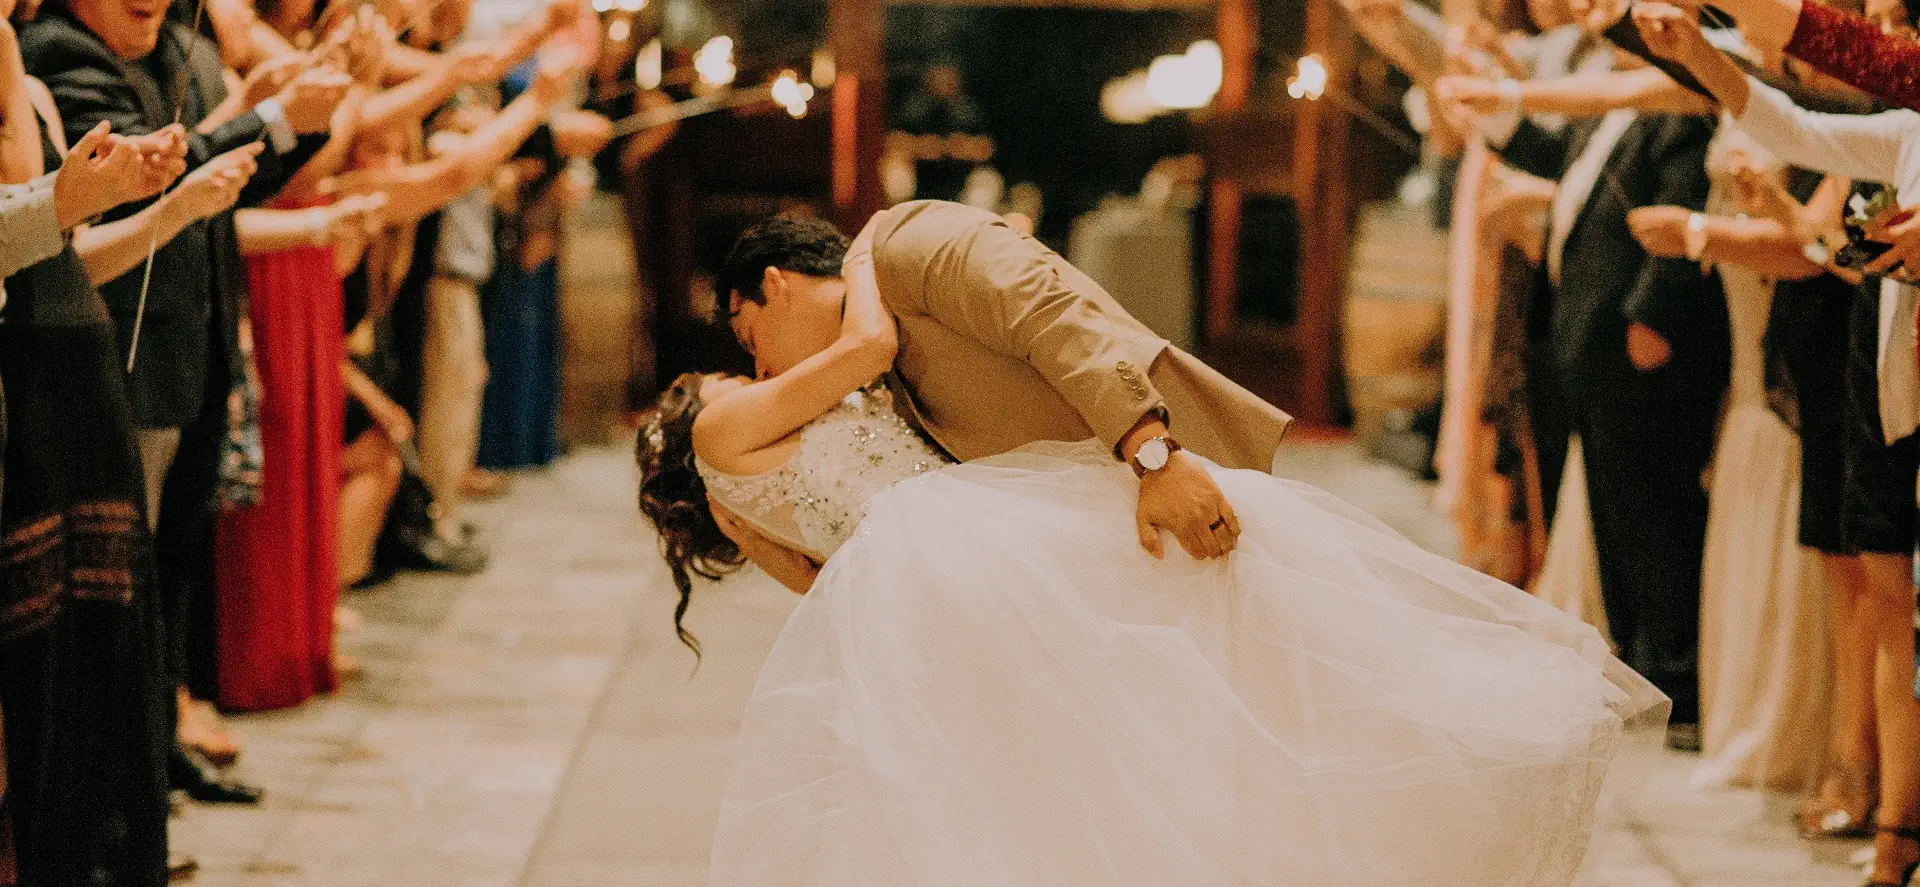
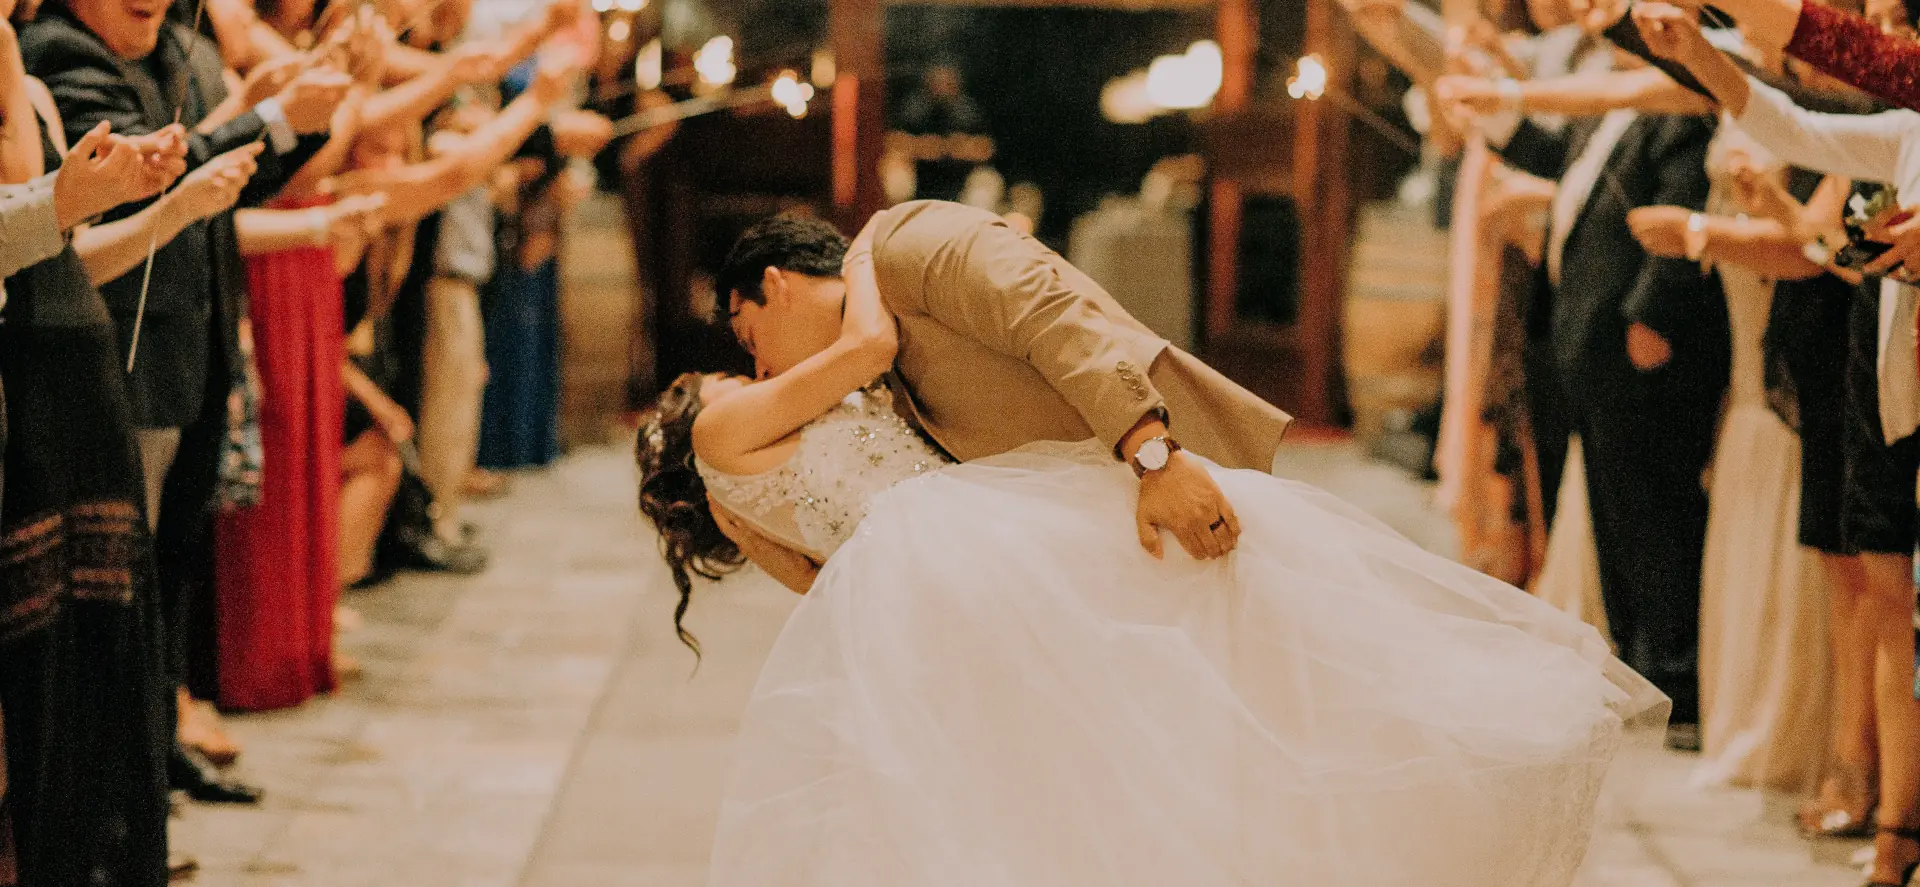
Changement images + changement src set selon media queries

diff --git a/index.html b/index.html
@@ -2,16 +2,21 @@
 <html lang="fr">
 
 <head>
+	<meta charset="UTF-8">
 	<meta name="viewport" content="width=device-width, initial-scale=1.0">
+
 	<title> Nina Carducci - Photographe </title>
+	<meta name="description" content="Saisir un moment, une émotion, une situation, un endroit, une lumière et les rendre immortels">
+
 	<link rel="stylesheet" href="./assets/bootstrap/bootstrap.min.css">
 	<link rel="stylesheet" href="./assets/style.css" media="all">
+
 	<link rel="preconnect" href="https://fonts.googleapis.com">
 	<link rel="preconnect" href="https://fonts.gstatic.com" crossorigin>
-	<link
-		href="https://fonts.googleapis.com/css2?family=Inter&family=Spectral:ital,wght@0,400;1,300;1,400;1,800&display=swap"
-		rel="stylesheet" media="print" onload="this.onload=null;this.removeAttribute('media');" fetchpriority="high">
-	<meta charset="UTF-8">
+
+	<link href="https://fonts.googleapis.com/css2?family=Inter&family=Spectral:ital,wght@0,400;1,300;1,400;1,800&display=swap"
+	rel="stylesheet" media="print" onload="this.onload=null;this.removeAttribute('media');" fetchpriority="high">
+	
 
 </head>
 
@@ -51,23 +56,29 @@
 					<div class="carousel-item">
 						<img src="./assets/images/slider/1920/nicholas-green-1920px.webp" class="d-block w-100"
 							width="1920" height="888" style="max-width: 100%; height: auto;" alt="Youngs at a concert"
-							srcset="./assets/images/slider/768/nicholas-green-768px.webp 768w,
-									./assets/images/slider/1920/nicholas-green-1920px.webp 1920w" sizes="100vw">
+							srcset="./assets/images/slider/650/nicholas-green-650px.webp 650w,
+									./assets/images/slider/1000/nicholas-green-1000px.webp 1000w,
+									./assets/images/slider/1180/nicholas-green-1180px.webp 1180w,
+									./assets/images/slider/1920/nicholas-green-1920px.webp 1920w">
 					</div>
 
 					<div class="carousel-item active">
-						<img src="./assets/images/slider/425/ryoji-iwata-425px.webp" class="d-block w-100" width="1920"
+						<img src="./assets/images/slider/1920/ryoji-iwata-1920px.webp" class="d-block w-100" width="1920"
 							height="888" style="max-width: 100%; height: auto;" alt="Man crossing road"
-							 srcset=".assets/images/slider/425/ryoji-iwata-425px.webp 425w,
-									 ./assets/images/slider/768/ryoji-iwata-768px.webp 768w,
-									 ./assets/images/slider/1920/ryoji-iwata-1920px.webp 1920w" sizes="100vw">
+							srcset=" ./assets/images/slider/650/ryoji-iwata-650px.webp 650w,
+									 ./assets/images/slider/1000/ryoji-iwata-1000px.webp 1000w,
+									 ./assets/images/slider/1180/ryoji-iwata-1180px.webp 1180w,
+									 ./assets/images/slider/1920/ryoji-iwata-1920px.webp 1920w">
+							
 					</div>
 
 					<div class="carousel-item">
-						<img src="./aassets/images/slider/1920/edward-cisneros-1920px.webp" class="d-block w-100"
+						<img src="./assets/images/slider/1920/edward-cisneros-1920px.webp" class="d-block w-100"
 							width="1920" height="888" style="max-width: 100%; height: auto;" alt="Wed couple kissing"
-							srcset="./assets/images/slider/768/edward-cisneros-768px.webp 768w,
-									./assets/images/slider/1920/edward-cisneros-1920px.webp 1920w" sizes="100vw">
+							srcset="./assets/images/slider/650/edward-cisneros-650px.webp 650w,
+									./assets/images/slider/1000/edward-cisneros-1000px.webp 1000w,
+									./assets/images/slider/1180/edward-cisneros-1180px.webp 1180w,
+									./assets/images/slider/1920/edward-cisneros-1920px.webp 1920w">
 					</div>
 
 				</div>
